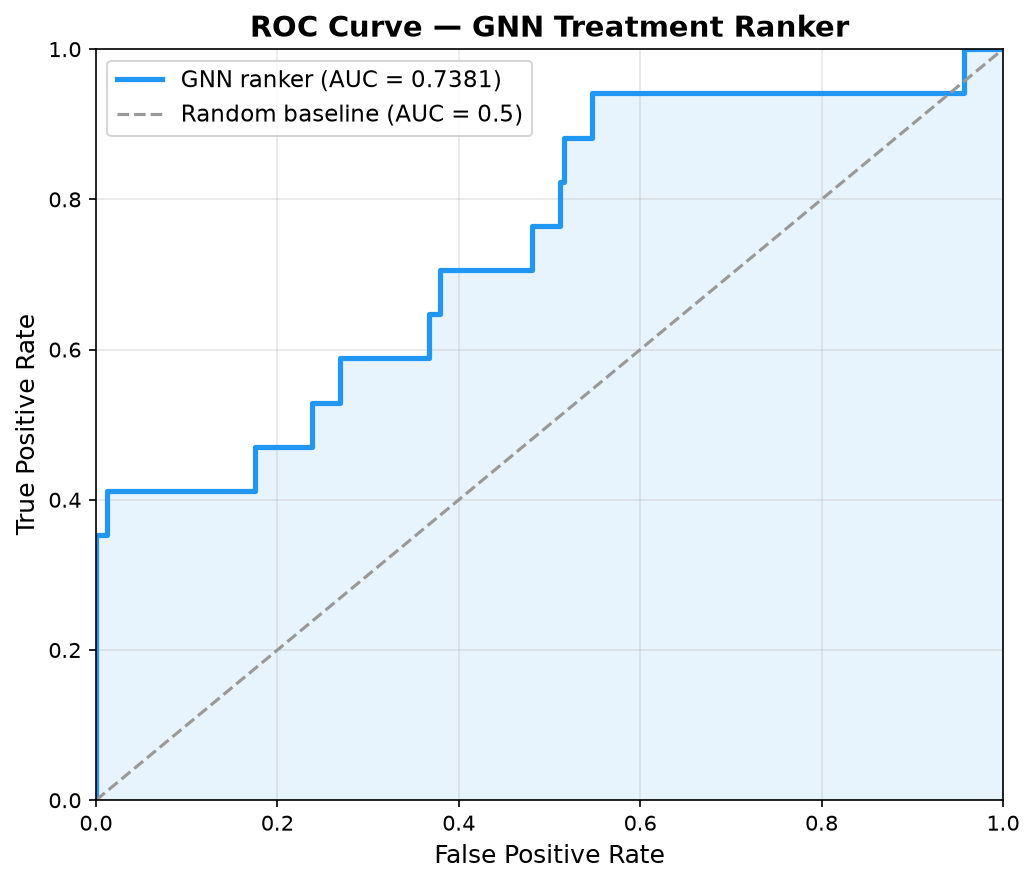
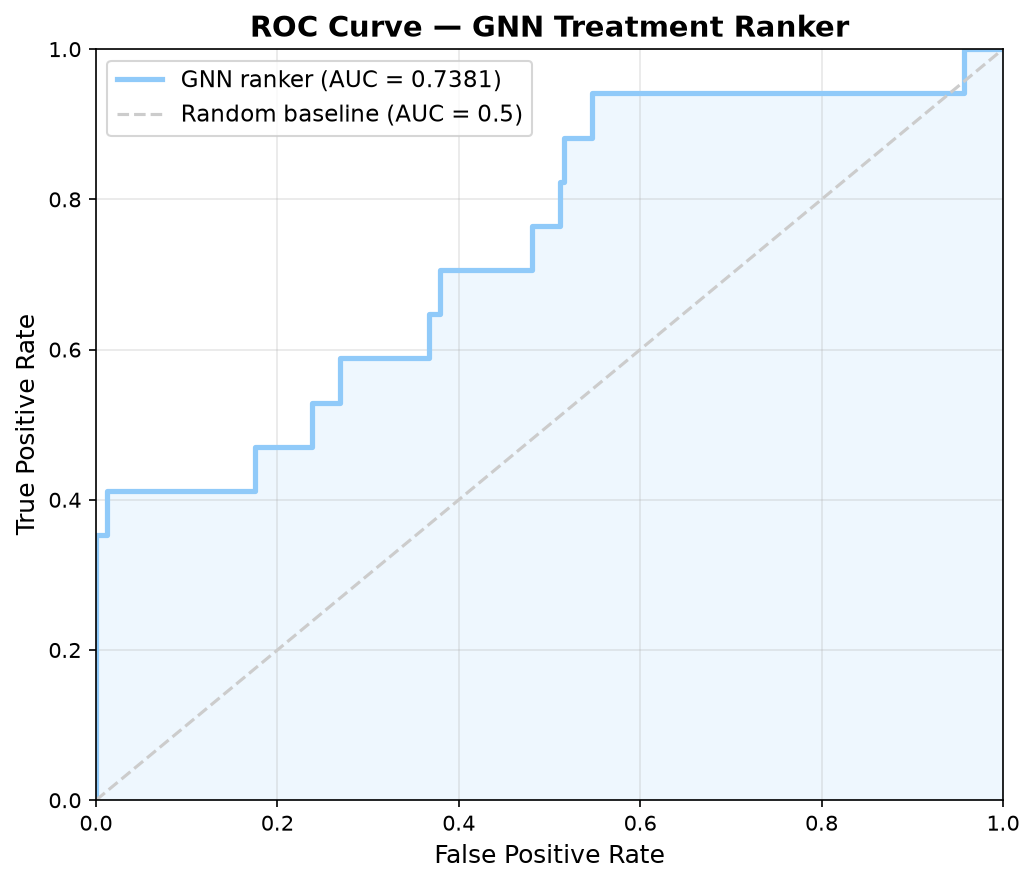
Updated Graph RAG explanation module and evaluation results

diff --git a/ranking/plot_metrics.py b/ranking/plot_metrics.py
@@ -229,8 +229,8 @@ def plot_training_curve():
 
     fig, ax = plt.subplots(figsize=(8, 5))
     epochs = list(range(1, len(train_losses) + 1))
-    ax.plot(epochs, train_losses, label="Train loss", color="#2196F3", linewidth=2)
-    ax.plot(epochs, val_losses, label="Validation loss", color="#E91E63", linewidth=2, linestyle="--")
+    ax.plot(epochs, train_losses, label="Train loss", color="#90CAF9", linewidth=2)
+    ax.plot(epochs, val_losses, label="Validation loss", color="#F48FB1", linewidth=2, linestyle="--")
     ax.set_xlabel("Epoch", fontsize=12)
     ax.set_ylabel("MSE Loss", fontsize=12)
     ax.set_title("GNN Training Loss Curve", fontsize=14, fontweight="bold")
@@ -262,7 +262,7 @@ def plot_ranking_metrics(ground_truth, gnn_results, drug_list):
 
     x = np.arange(len(K_VALUES))
     width = 0.25
-    colors = ["#2196F3", "#4CAF50", "#FF9800"]
+    colors = ["#90CAF9", "#A5D6A7", "#FFCC80"]
 
     fig, ax = plt.subplots(figsize=(9, 5))
     for i, (metric, values) in enumerate(metrics.items()):
@@ -301,9 +301,9 @@ def plot_roc_curve(ground_truth, gnn_results, drug_list):
     auc = roc_auc_score(all_y_true, all_y_score)
 
     fig, ax = plt.subplots(figsize=(7, 6))
-    ax.plot(fpr, tpr, color="#2196F3", linewidth=2.5, label=f"GNN ranker (AUC = {auc:.4f})")
-    ax.plot([0, 1], [0, 1], color="#999", linestyle="--", linewidth=1.5, label="Random baseline (AUC = 0.5)")
-    ax.fill_between(fpr, tpr, alpha=0.1, color="#2196F3")
+    ax.plot(fpr, tpr, color="#90CAF9", linewidth=2.5, label=f"GNN ranker (AUC = {auc:.4f})")
+    ax.plot([0, 1], [0, 1], color="#CCCCCC", linestyle="--", linewidth=1.5, label="Random baseline (AUC = 0.5)")
+    ax.fill_between(fpr, tpr, alpha=0.15, color="#90CAF9")
     ax.set_xlabel("False Positive Rate", fontsize=12)
     ax.set_ylabel("True Positive Rate", fontsize=12)
     ax.set_title("ROC Curve — GNN Treatment Ranker", fontsize=14, fontweight="bold")
@@ -345,7 +345,7 @@ def plot_baseline_comparison(ground_truth, gnn_results, evidence_per_patient, dr
                         for p, gt in ground_truth.items()])
 
     methods = ["Random", "Evidence Score", "GNN (ours)"]
-    colors = ["#9E9E9E", "#FF9800", "#2196F3"]
+    colors = ["#CFCFCF", "#FFCC80", "#90CAF9"]
 
     fig, axes = plt.subplots(1, 3, figsize=(14, 5))
     metric_fns = [precision_at_k, recall_at_k, ndcg_at_k]
@@ -372,12 +372,10 @@ def plot_baseline_comparison(ground_truth, gnn_results, evidence_per_patient, dr
         ax.set_ylim(0, 0.65)
         ax.grid(True, axis="y", alpha=0.3)
 
-        patches = [mpatches.Patch(color=c, label=f"K={k}")
-                   for c, k in zip(["#333", "#666", "#999"], K_VALUES)]
+        patches = [mpatches.Patch(color=c, label=f"K={k}") for c, k in zip(["#B0B0B0", "#C8C8C8", "#DDDDDD"], K_VALUES)]
         ax.legend(handles=patches, fontsize=8)
 
-    fig.suptitle("Baseline Comparison: Random vs Evidence Score vs GNN",
-                 fontsize=13, fontweight="bold")
+    fig.suptitle("Baseline Comparison: Random vs Evidence Score vs GNN", fontsize=13, fontweight="bold")
     plt.tight_layout()
     plt.savefig("data/plots/4_baseline_comparison.png", dpi=150, bbox_inches="tight")
     plt.close()
@@ -399,15 +397,14 @@ def plot_score_distribution(ground_truth, gnn_results):
                 negative_scores.append(score)
 
     fig, ax = plt.subplots(figsize=(8, 5))
-    ax.hist(negative_scores, bins=25, alpha=0.7, color="#E53935",
-            label="Non-relevant drugs", density=True)
-    ax.hist(positive_scores, bins=15, alpha=0.8, color="#43A047",
-            label="Relevant drugs (ground truth)", density=True)
+    ax.hist(negative_scores, bins=25, alpha=0.6, color="#EF9A9A",
+        label="Non-relevant drugs", density=True)
+    ax.hist(positive_scores, bins=15, alpha=0.7, color="#A5D6A7",
+        label="Relevant drugs (ground truth)", density=True)
     ax.axvline(0, color="black", linestyle="--", linewidth=1.2, alpha=0.6, label="Score = 0")
     ax.set_xlabel("GNN Predicted Score (tanh)", fontsize=12)
     ax.set_ylabel("Density", fontsize=12)
-    ax.set_title("GNN Score Distribution: Relevant vs Non-relevant Drugs",
-                 fontsize=13, fontweight="bold")
+    ax.set_title("GNN Score Distribution: Relevant vs Non-relevant Drugs", fontsize=13, fontweight="bold")
     ax.legend(fontsize=11)
     ax.grid(True, alpha=0.3)
     plt.tight_layout()

diff --git a/explanation/llm_explainer.py b/explanation/llm_explainer.py
@@ -151,8 +151,7 @@ def main():
 
     print("\n[2/4] Selecting patient...")
     retriever = SubgraphRetriever(NEO4J_URI, NEO4J_USER, NEO4J_PASSWORD)
-    patients = retriever.list_available_patients(limit=10)
-    target_patient = patients[0]["patient_id"]
+    target_patient = "TCGA-24-2289"
     print(f"   Patient: {target_patient}")
 
     print("\n[3/4] Getting GNN-ranked drugs and evidence subgraph...")
